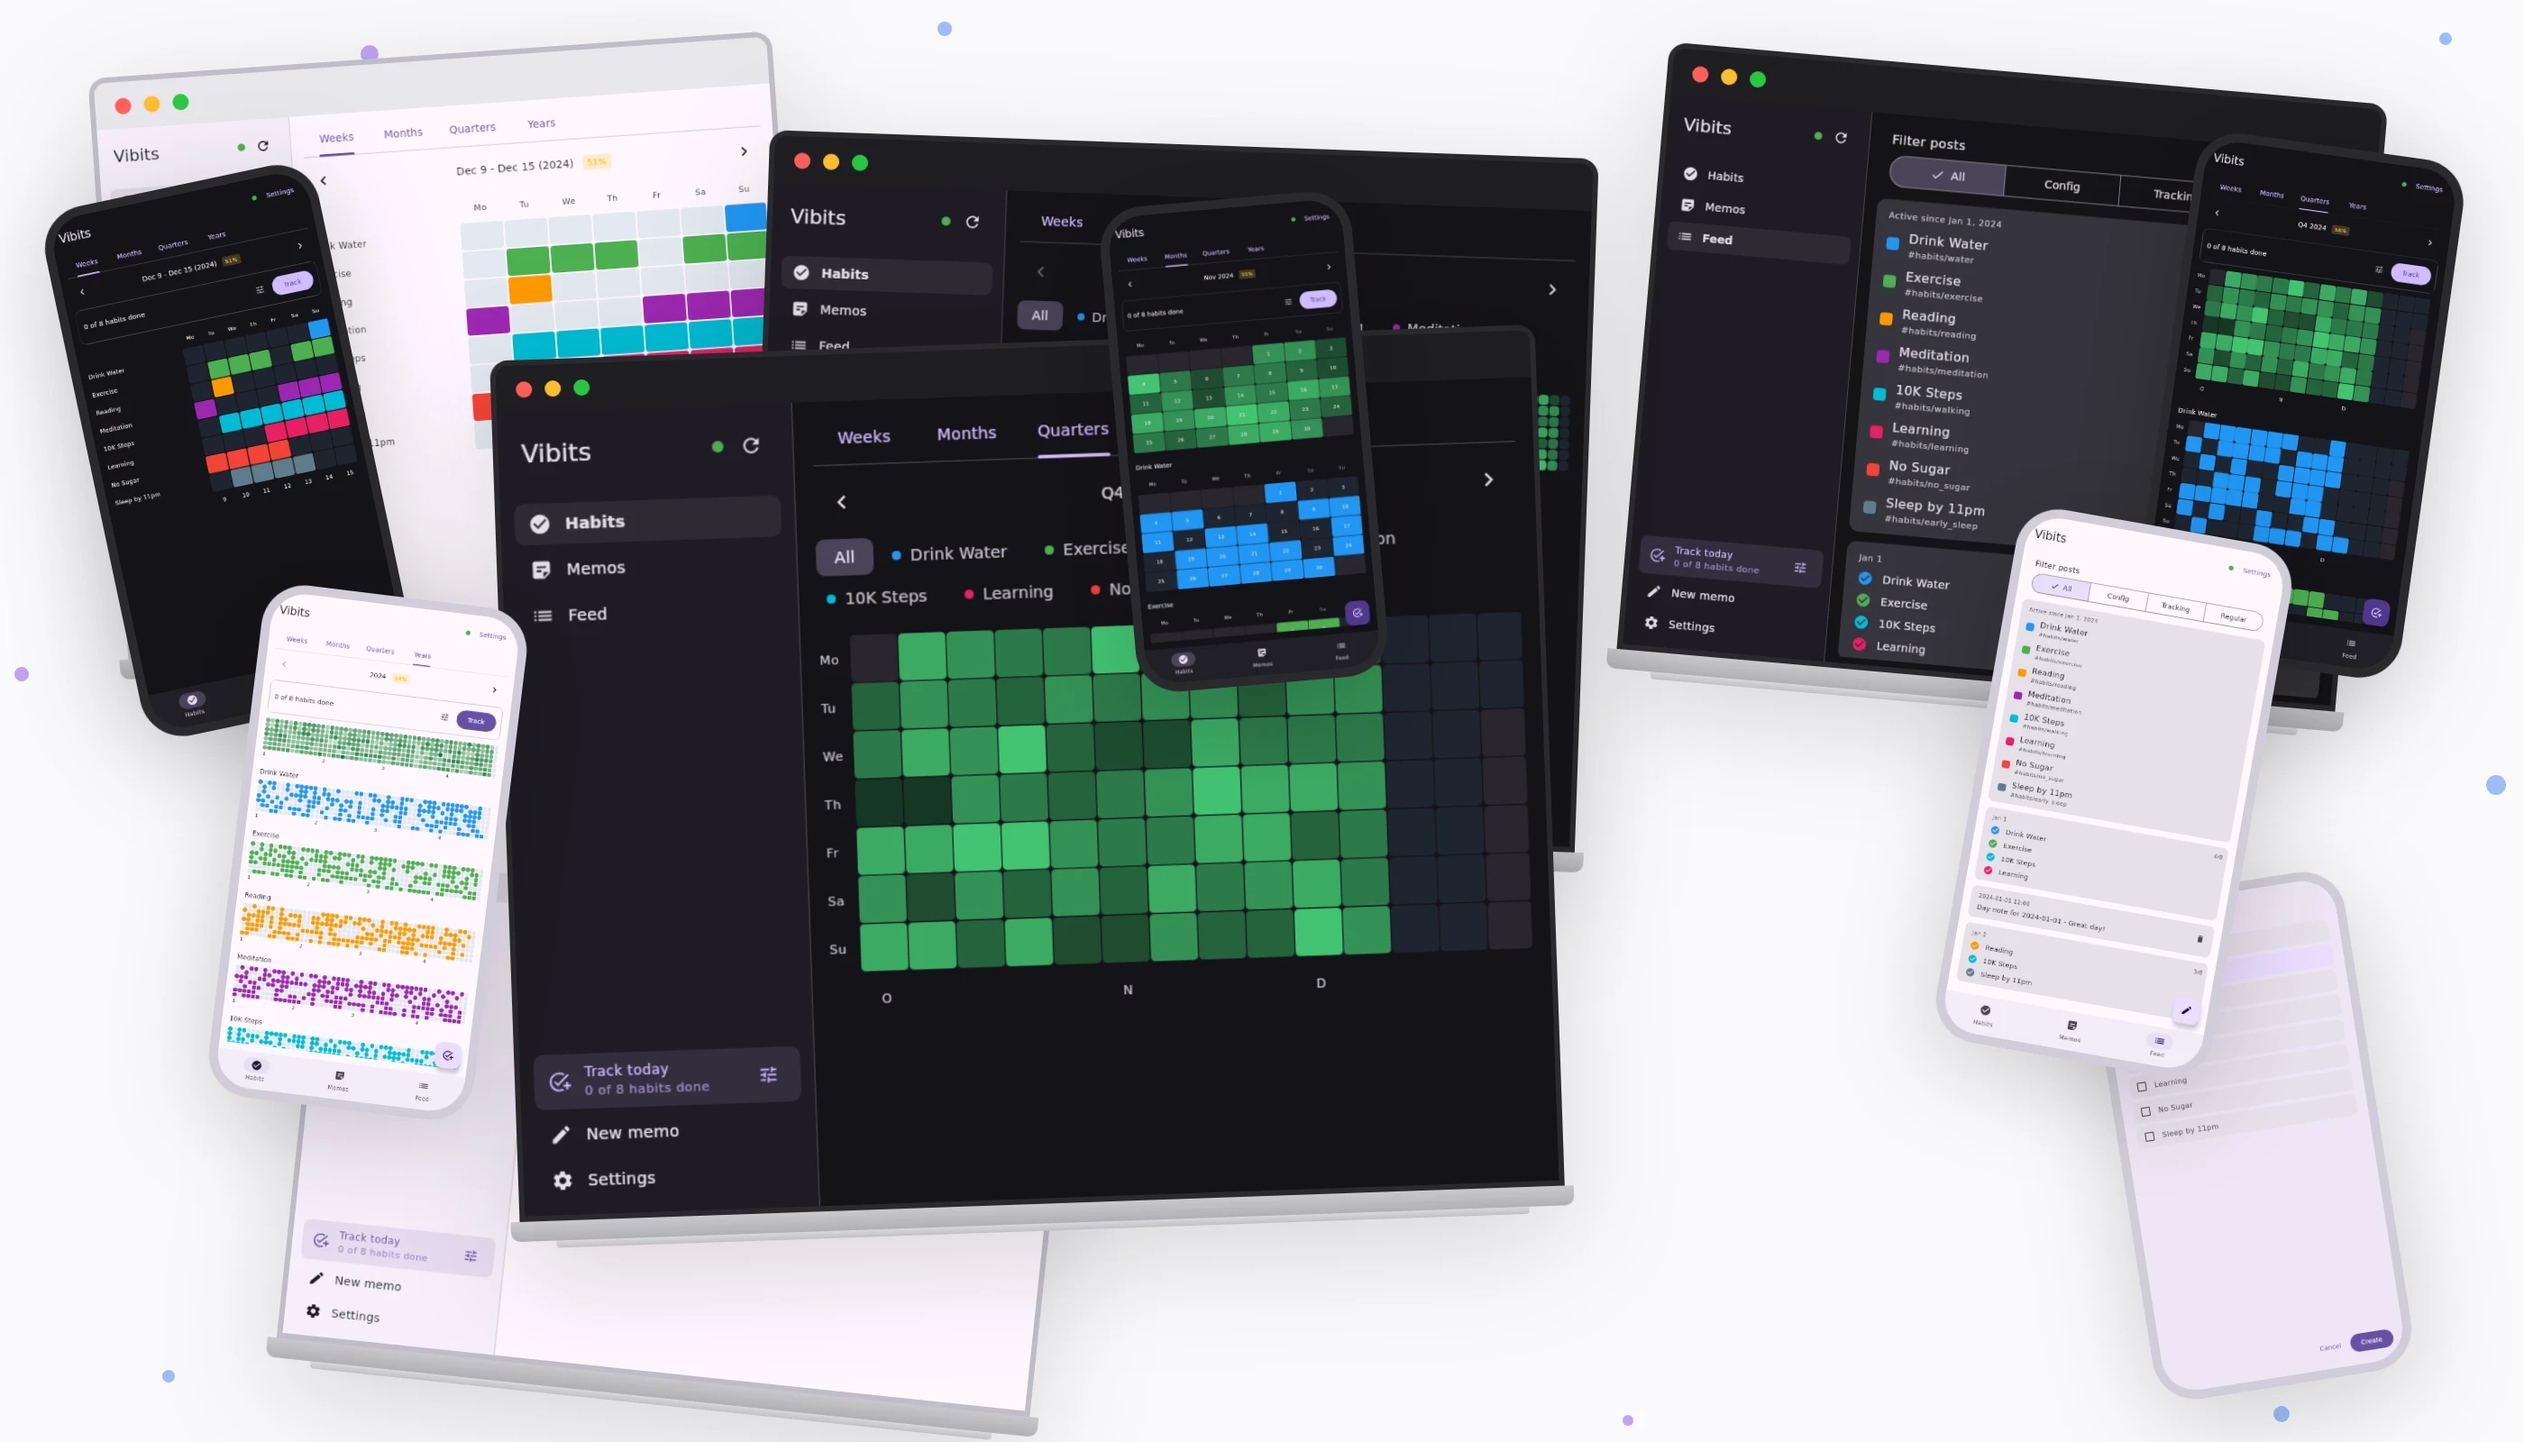
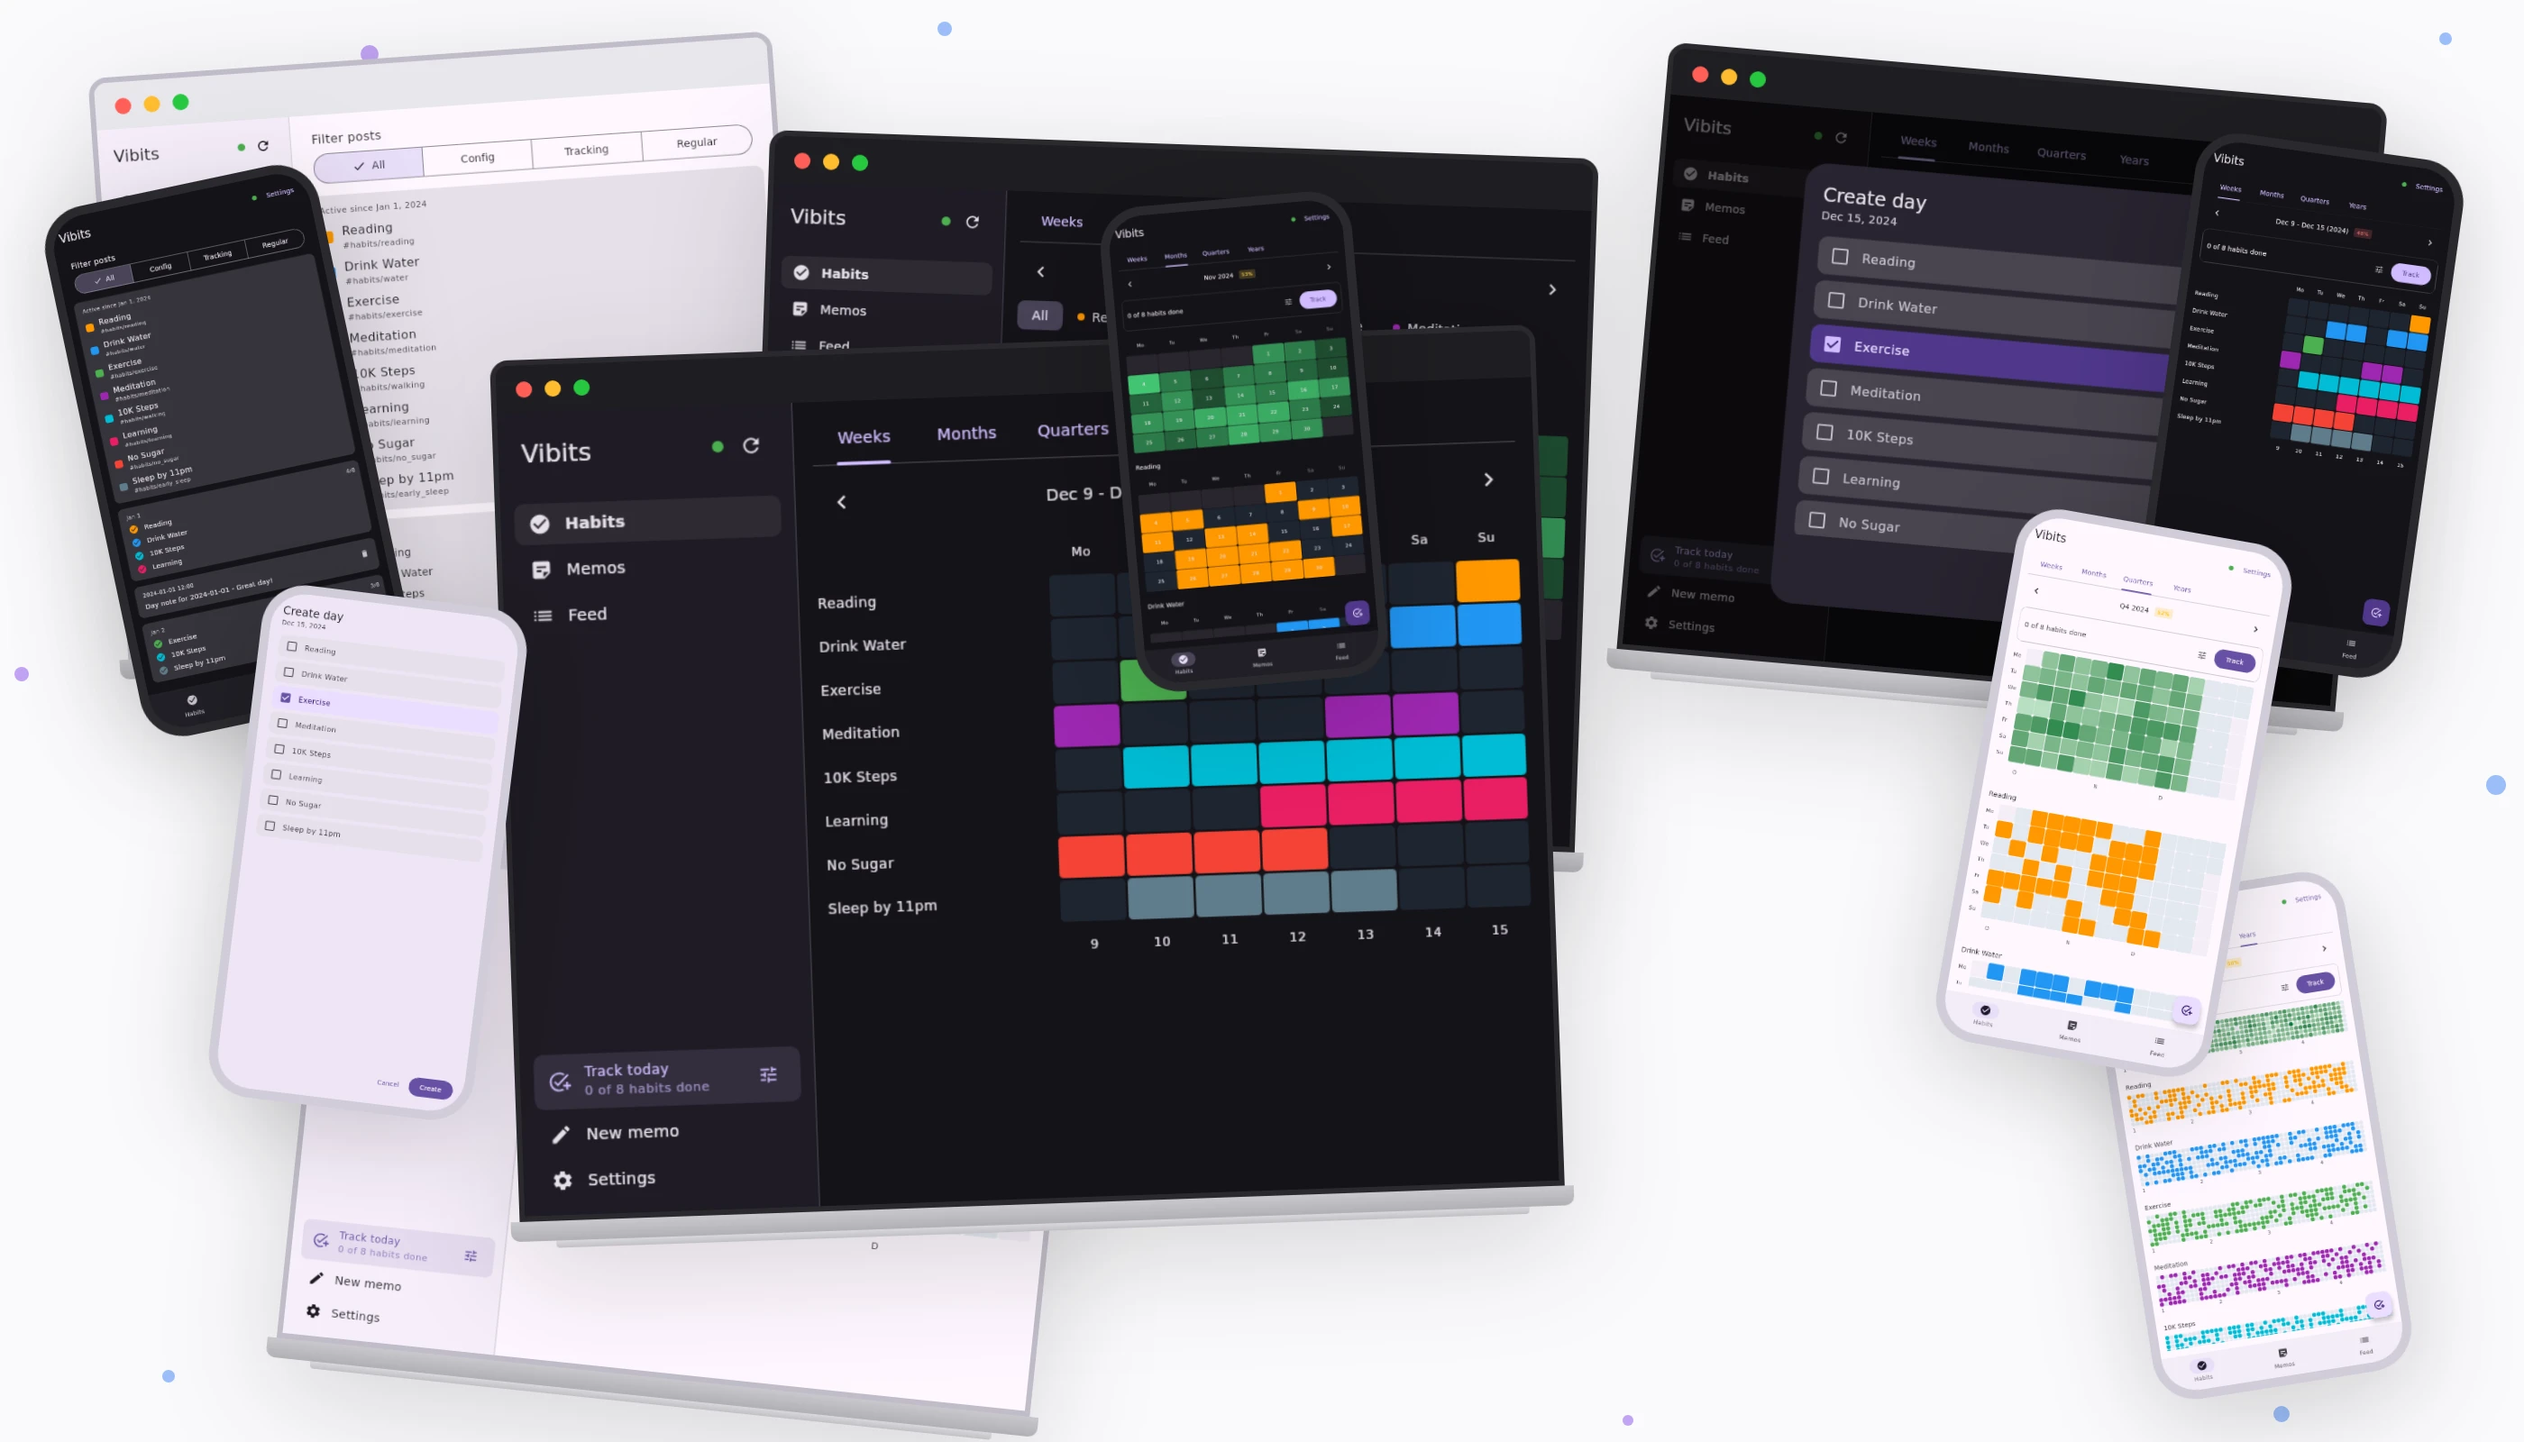
Improve hero workflow and swap demo habit order
- Add dynamic hero candidate selection and smart triggering
- Update actions/cache to v5
- Avoid bot co-author in hero commits
- Swap habit order in demo data and strengthen rebase rule

diff --git a/feature/homescreen/src/desktopTest/kotlin/space/be1ski/vibits/feature/homescreen/presentation/view/AppScreenshotTest.kt b/feature/homescreen/src/desktopTest/kotlin/space/be1ski/vibits/feature/homescreen/presentation/view/AppScreenshotTest.kt
@@ -85,7 +85,7 @@ class AppScreenshotTest {
   private val noSugarConfig = HabitConfig(tag = "#habits/no_sugar", label = "No Sugar", color = HabitColor(0xFFF44336))
   private val earlySleepConfig = HabitConfig(tag = "#habits/early_sleep", label = "Early Sleep", color = HabitColor(0xFF607D8B))
   private val allHabits =
-    listOf(waterConfig, exerciseConfig, readingConfig, meditationConfig, walkingConfig, learningConfig, noSugarConfig, earlySleepConfig)
+    listOf(meditationConfig, waterConfig, exerciseConfig, readingConfig, walkingConfig, learningConfig, noSugarConfig, earlySleepConfig)
 
   private val fakeExportService =
     object : ExportService {
@@ -121,7 +121,7 @@ class AppScreenshotTest {
     var cursor = configDate
     while (cursor <= today) {
       val completedHabits =
-        allHabits.filter { rng.nextFloat() < 0.55f }
+        allHabits.filter { rng.nextFloat() < 0.5f }
       if (completedHabits.isNotEmpty()) {
         val dayStr = cursor.toString()
         val content =
@@ -240,6 +240,7 @@ class AppScreenshotTest {
     habitsState: HabitsState = HabitsState(),
     settingsState: SettingsState = SettingsState(),
     wideLayout: Boolean = true,
+    hero: Boolean = false,
     currentVersion: String = "dev",
     getChangelog: GetChangelogUseCase = fakeGetChangelog,
     checkForUpdate: CheckForUpdateUseCase? = null,
@@ -258,7 +259,7 @@ class AppScreenshotTest {
       checkForUpdate = checkForUpdate,
       testLogs = testLogs,
     )
-    saveScreenshot("${platform}_light_$name")
+    saveScreenshot("${platform}_light_$name", hero = hero)
     setVibitsApp(
       appState,
       memosState,
@@ -271,7 +272,7 @@ class AppScreenshotTest {
       checkForUpdate = checkForUpdate,
       testLogs = testLogs,
     )
-    saveScreenshot("${platform}_dark_$name")
+    saveScreenshot("${platform}_dark_$name", hero = hero)
   }
 
   private fun captureAppAllVariants(
@@ -280,6 +281,7 @@ class AppScreenshotTest {
     memosState: MemosState = MemosState(memos = demoMemos, initialDataLoaded = true),
     habitsState: HabitsState = HabitsState(),
     settingsState: SettingsState = SettingsState(),
+    hero: Boolean = false,
     currentVersion: String = "dev",
     getChangelog: GetChangelogUseCase = fakeGetChangelog,
     testLogs: List<LogEntry>? = null,
@@ -291,6 +293,7 @@ class AppScreenshotTest {
         memosState,
         habitsState,
         settingsState,
+        hero = hero,
         currentVersion = currentVersion,
         getChangelog = getChangelog,
         testLogs = testLogs,
@@ -304,6 +307,7 @@ class AppScreenshotTest {
         habitsState,
         settingsState,
         wideLayout = false,
+        hero = hero,
         currentVersion = currentVersion,
         getChangelog = getChangelog,
         testLogs = testLogs,
@@ -415,7 +419,7 @@ class AppScreenshotTest {
     val range = ActivityRange.Week(periodStart)
     val appState = habitsAppState(tab = TimeRangeTab.WEEKS, periodStartDate = periodStart)
     val habitsState = habitsStateWithCache(range)
-    captureAppAllVariants(name = "app_habits_week", appState = appState, habitsState = habitsState)
+    captureAppAllVariants(name = "app_habits_week", appState = appState, habitsState = habitsState, hero = true)
   }
 
   @Test
@@ -424,7 +428,7 @@ class AppScreenshotTest {
     val range = ActivityRange.Month(2024, Month.NOVEMBER)
     val appState = habitsAppState(tab = TimeRangeTab.MONTHS, periodStartDate = periodStart)
     val habitsState = habitsStateWithCache(range)
-    captureAppAllVariants(name = "app_habits_month", appState = appState, habitsState = habitsState)
+    captureAppAllVariants(name = "app_habits_month", appState = appState, habitsState = habitsState, hero = true)
   }
 
   @Test
@@ -433,7 +437,7 @@ class AppScreenshotTest {
     val range = ActivityRange.Quarter(2024, 4)
     val appState = habitsAppState(tab = TimeRangeTab.QUARTERS, periodStartDate = periodStart)
     val habitsState = habitsStateWithCache(range)
-    captureAppAllVariants(name = "app_habits_quarter", appState = appState, habitsState = habitsState)
+    captureAppAllVariants(name = "app_habits_quarter", appState = appState, habitsState = habitsState, hero = true)
   }
 
   @Test
@@ -442,7 +446,7 @@ class AppScreenshotTest {
     val range = ActivityRange.Year(2024)
     val appState = habitsAppState(tab = TimeRangeTab.YEARS, periodStartDate = periodStart)
     val habitsState = habitsStateWithCache(range)
-    captureAppAllVariants(name = "app_habits_year", appState = appState, habitsState = habitsState)
+    captureAppAllVariants(name = "app_habits_year", appState = appState, habitsState = habitsState, hero = true)
   }
 
   // endregion
@@ -455,7 +459,7 @@ class AppScreenshotTest {
     val range = ActivityRange.Week(periodStart)
     val appState = postsAppState(tab = TimeRangeTab.WEEKS, periodStartDate = periodStart)
     val habitsState = habitsStateWithCache(range, mode = ActivityMode.POSTS)
-    captureAppAllVariants(name = "app_stats_week", appState = appState, habitsState = habitsState)
+    captureAppAllVariants(name = "app_stats_week", appState = appState, habitsState = habitsState, hero = true)
   }
 
   @Test
@@ -464,7 +468,7 @@ class AppScreenshotTest {
     val range = ActivityRange.Month(2024, Month.NOVEMBER)
     val appState = postsAppState(tab = TimeRangeTab.MONTHS, periodStartDate = periodStart)
     val habitsState = habitsStateWithCache(range, mode = ActivityMode.POSTS)
-    captureAppAllVariants(name = "app_stats_month", appState = appState, habitsState = habitsState)
+    captureAppAllVariants(name = "app_stats_month", appState = appState, habitsState = habitsState, hero = true)
   }
 
   // endregion
@@ -472,7 +476,7 @@ class AppScreenshotTest {
   // region Feed
 
   @Test
-  fun `when feed has data then captures feed screen`() = captureAppAllVariants(name = "app_feed", appState = feedAppState())
+  fun `when feed has data then captures feed screen`() = captureAppAllVariants(name = "app_feed", appState = feedAppState(), hero = true)
 
   @Test
   fun `when feed is empty then captures empty feed`() =
@@ -578,6 +582,7 @@ class AppScreenshotTest {
     captureAppAllVariants(
       name = "app_habit_editor",
       appState = habitsAppState(),
+      hero = true,
       habitsState =
         habitsStateWithCache(range).copy(
           editorDay = editorDay,

diff --git a/core/ui/testing/src/desktopMain/kotlin/space/be1ski/vibits/core/ui/test/ScreenshotCapture.kt b/core/ui/testing/src/desktopMain/kotlin/space/be1ski/vibits/core/ui/test/ScreenshotCapture.kt
@@ -44,32 +44,43 @@ fun ComposeUiTest.setThemedContent(
 fun ComposeUiTest.captureInBothThemes(
   name: String,
   wideLayout: Boolean = true,
+  hero: Boolean = false,
   content: @Composable () -> Unit,
 ) {
   setThemedContent(darkTheme = false, wideLayout = wideLayout, content = content)
-  saveScreenshot("${name}_light")
+  saveScreenshot("${name}_light", hero = hero)
   setThemedContent(darkTheme = true, wideLayout = wideLayout, content = content)
-  saveScreenshot("${name}_dark")
+  saveScreenshot("${name}_dark", hero = hero)
 }
 
 @OptIn(ExperimentalTestApi::class)
 fun captureAllVariants(
   name: String,
+  hero: Boolean = false,
   assertions: ComposeUiTest.() -> Unit = {},
   content: @Composable () -> Unit,
 ) {
   runWideUiTest {
-    captureInBothThemes("wide_$name", wideLayout = true, content = content)
+    setThemedContent(darkTheme = false, wideLayout = true, content = content)
+    saveScreenshot("wide_light_$name", hero = hero)
+    setThemedContent(darkTheme = true, wideLayout = true, content = content)
+    saveScreenshot("wide_dark_$name", hero = hero)
     assertions()
   }
   runCompactUiTest {
-    captureInBothThemes("compact_$name", wideLayout = false, content = content)
+    setThemedContent(darkTheme = false, wideLayout = false, content = content)
+    saveScreenshot("compact_light_$name", hero = hero)
+    setThemedContent(darkTheme = true, wideLayout = false, content = content)
+    saveScreenshot("compact_dark_$name", hero = hero)
     assertions()
   }
 }
 
 @OptIn(ExperimentalTestApi::class)
-fun ComposeUiTest.saveScreenshot(scenario: String) {
+fun ComposeUiTest.saveScreenshot(
+  scenario: String,
+  hero: Boolean = false,
+) {
   waitForIdle()
   val roots = onAllNodes(isRoot())
   val firstImage = roots[0].captureToImage().toAwtImage()
@@ -84,4 +95,7 @@ fun ComposeUiTest.saveScreenshot(scenario: String) {
   g.dispose()
   val dir = File("build/ui-screenshots").also { it.mkdirs() }
   ImageIO.write(composite, "png", File(dir, "$scenario.png"))
+  if (hero) {
+    File(dir, "hero-candidates.txt").appendText("$scenario.png\n")
+  }
 }

diff --git a/CLAUDE.md b/CLAUDE.md
@@ -88,7 +88,7 @@ Actions split into sealed subtypes (one per sub-reducer). Sub-reducers are `inte
 
 ## Git & PRs
 
-- All changes via PRs, never commit to main. `git fetch origin main` + rebase before starting.
+- All changes via PRs, never commit to main. **ALWAYS** `git fetch origin main && git rebase origin/main` before first commit on any branch. This is mandatory — never skip it, even if you think the branch is up to date.
 - Squash merge: `gh pr merge --auto --squash --delete-branch`
 - PR updates: push new commits to the same branch (don't recreate PRs). Amend + force-push only when explicitly asked.
 - Commit messages: imperative, concise, English. No claude.ai session links.
